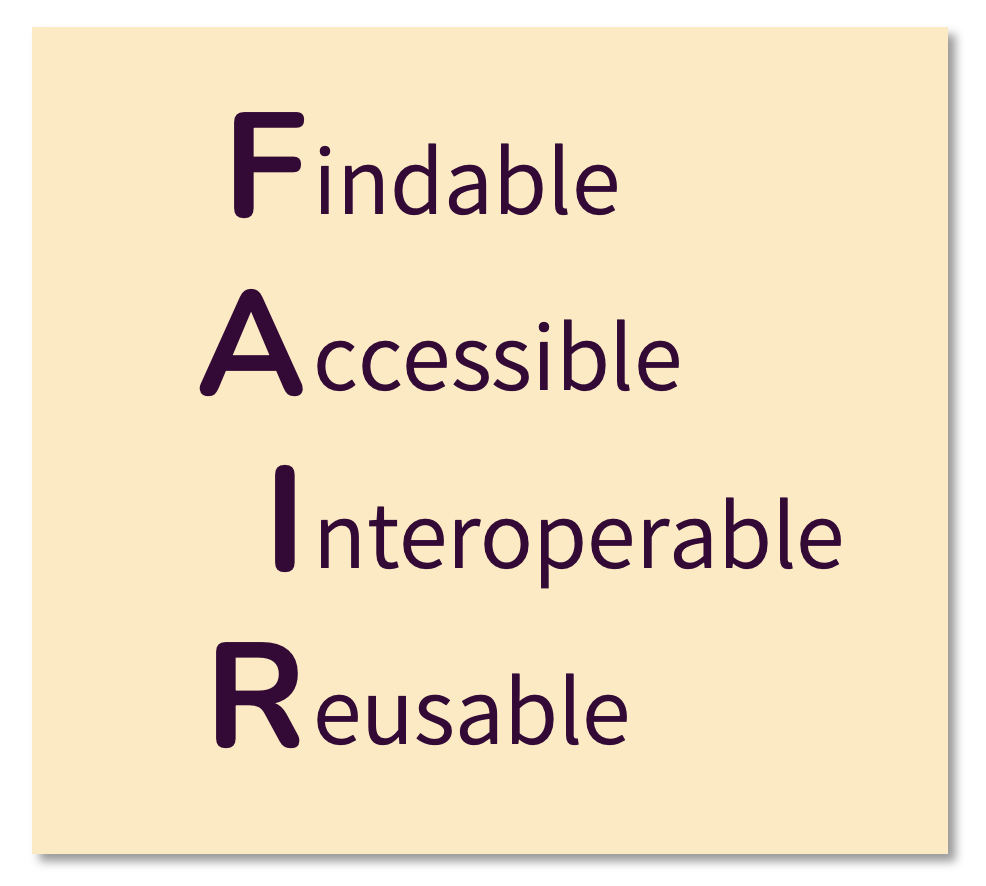
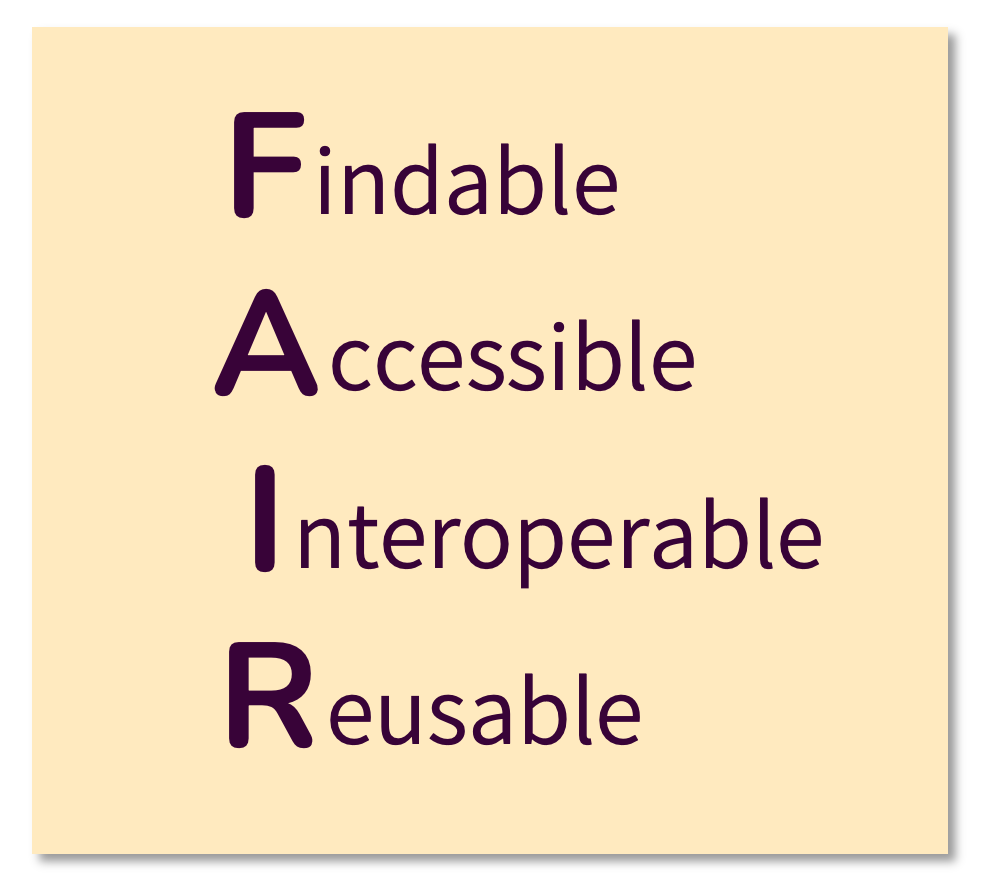
Improvements to module "Software Publication"
and a related image fix in "Software Landscape"
Closes #198

Changed region(s): [[0.2434, 0.5181, 0.8519, 0.6704], [0.1826, 0.3047, 0.6998, 0.4571], [0.213, 0.7009, 0.6694, 0.8533]]

diff --git a/modules/publication/slides-publication.md b/modules/publication/slides-publication.md
@@ -49,14 +49,19 @@ The goal is to allow others to find and use your code, if they so wish, without 
 
 Note:
 
-Citability - Allows the software authors to get credit for their work
-Reproducibility - If software is not published anywhere then few people will successfully reproduce analyses, simulations or other research results that were performed by other researchers
+**Citability** - Allows the software authors to get credit for their work
+
+**Reproducibility** - If software is not published anywhere then few people will successfully reproduce analyses, simulations or other research results that were performed by other researchers
 
 Additionally, publishing is essential for meeting the FAIR principles:
-Findability - if software lives on someone's harddrive then it cannot be easily found by anyone
-Accessibility - the software can e.g. be downloaded and installed using a standard protocol (authentication is still a possibility)
-Interoperability - publishing the dependencies (e.g. software libraries) and input/output formats and versions is necessary for interoperability
-Reusability - it's only reusable if it's available, and if people know what they are allowed to do with it (based on its software license)
+
+**Findability** - if software lives on someone's harddrive then it cannot be easily found by anyone
+
+**Accessibility** - the software can e.g. be downloaded and installed using a standard protocol (authentication is still a possibility)
+
+**Interoperability** - publishing the dependencies (e.g. software libraries) and input/output formats and versions is necessary for interoperability
+
+**Reusability** - it's only reusable if it's available, and if people know what they are allowed to do with it (based on its software license)
 
 ===
 
@@ -69,7 +74,7 @@ Reusability - it's only reusable if it's available, and if people know what they
 * Write a paper about those results
 * Possibly not even mentioning the software at all
 
-===
+==
 
 <!-- .slide: data-state="standard" -->
 
@@ -90,7 +95,7 @@ Reusability - it's only reusable if it's available, and if people know what they
 * Registries
 * Software Paper
 
-===
+==
 
 <!-- .slide: data-state="standard" -->
 ### Software repository
@@ -107,7 +112,7 @@ Note:
 
 See license, citation and software management chapters
 
-===
+==
 
 <!-- .slide: data-state="standard" -->
 ### Software repository
@@ -118,7 +123,7 @@ Note:
 
 Anything is better than nothing. Gitlab and Github are the mainstream, used by many and with lots of features. You might run into projects using other repositories. 
 
-===
+==
 
 <!-- .slide: data-state="standard" -->
 ### Tag/semantic versioning
@@ -129,21 +134,21 @@ If your software is used as a dependency of another software/workflow then speci
 
 Ideally, use "semantic versioning" in the form MAJOR.MINOR.PATCH (e.g. v2.1.5)
 
-===
+==
 
 <!-- .slide: data-state="standard" -->
 ### Get a Persistent Identifier
 
-Specific versions of the software should be published to an archiving service that provides persistent identifiers
+Specific versions of the software should be published to an archiving service that provides persistent identifiers.
 
 For example, Zenodo is a long term archiving service for scientific data and software.
-Zenodo will assign a DOI to the published data, making it citable
+Zenodo will assign a **D**igital **O**bject **I**dentifyer (**DOI**) to the published data, making it citable.
 
 Note:
 
 See Citation story
 
-===
+==
 
 <!-- .slide: data-state="standard" -->
 ### Registries
@@ -155,7 +160,10 @@ Add a link to your software on a relevant public registry
 
 This aids greatly in Findability by relevant researchers
 
-===
+Note:
+An "awesome list" is a list of awesome things curated by the community, often hosted as a repository on GitHub.
+
+==
 
 <!-- .slide: data-state="standard" -->
 ### Software Paper

diff --git a/modules/publication/ex_registries.md b/modules/publication/ex_registries.md
@@ -4,7 +4,7 @@ type: exercise
 order: 5
 ---
 
-# Exercise: Find your registry
+# Exercise: Find your registry (10 mins)
 
 Software registries are an important player in the findability of research software.
 A collection of software registries can be found here: [Research Software Registries Awesome List](https://github.com/NLeSC/awesome-research-software-registries)

diff --git a/modules/publication/JOSS_checklist.md b/modules/publication/JOSS_checklist.md
@@ -4,7 +4,7 @@ type: exercise
 order: 6
 ---
 
-# Review your software for publication
+# Review your software for publication (15&nbsp;mins)
 
 *In a live setting, this exercise is done in groups.
 Each group will be assigned a software project.
